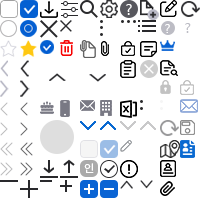
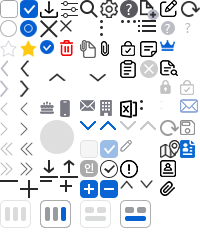
[사업현황 등록] 작업중

diff --git a/view/bizStateRegister.html b/view/bizStateRegister.html
@@ -457,8 +457,17 @@
                                     <div class="suffix">
                                         <div class="tableTop left">
                                             <h4 class="mainC">실투입기준</h4>
-                                            <input type="checkbox" id="e1" class="hasTxt">
-                                            <label for="e1" class="ml10">삼성SDS등급적용</label>     
+                                            
+                                            <div class="ml20">
+                                                <span class="hasTooltip">                                   
+                                                    <i class="ico layoutF is-active"></i>
+                                                    <div class="tooltip bottom">좌우정렬 보기</div>         
+                                                </span>
+                                                <span class="hasTooltip">                                   
+                                                    <i class="ico layoutG"></i>
+                                                    <div class="tooltip bottom">상하정렬 보기</div>         
+                                                </span>
+                                            </div>
                                         </div>
 
                                         <div class="tabWrapper" id="onActual">
@@ -1224,7 +1233,84 @@
                                                     </table>
                                                 </div>
                                             </div>
-                                            <div id="contract-02" class="tabCont">bb</div>
+                                            <div id="contract-02" class="tabCont">
+                                                <div class="tableBox">
+                                                    <table>
+                                                        <colgroup>
+                                                            <col>
+                                                            <col>
+                                                            <col>
+                                                            <col width="20%">
+                                                            <col>
+
+                                                            <col>
+                                                            <col>
+                                                            <col>
+                                                            <col>
+                                                        </colgroup>
+                                                        <thead>
+                                                            <tr>
+                                                                <th>투입인력</th>
+                                                                <th>결제방법</th>
+                                                                <th>항목</th>
+                                                                <th>실투입기간</th>
+                                                                <th>MM</th>
+                                                                <th>단가</th>
+                                                                <th>제외금액</th>
+                                                                <th>합계</th>
+                                                                <th>파일</th>
+                                                                <th>비고</th>
+                                                            </tr>
+                                                        </thead>
+                                                        <tbody>
+                                                            <tr>
+                                                                <td>김호영</td>  
+                                                                <td>법인카드</td>
+                                                                <td>숙소</td>  
+                                                                <td>2022.10.01~2023.02.12</td>  
+                                                                <td>1.0</td>  
+                                                                <td>9,000,000</td>  
+                                                                <td>0</td>
+                                                                <td>100,000</td>  
+                                                                <td><i class="ico file"></i></td>  
+                                                                <td></td>  
+                                                            </tr>
+                                                            <tr>
+                                                                <td>김호영</td>  
+                                                                <td>현금</td>
+                                                                <td>합산제외</td>  
+                                                                <td>2022.10.01~2023.02.12</td>  
+                                                                <td>1.0</td>  
+                                                                <td>0</td>  
+                                                                <td><span class="marked">60,000</span></td>
+                                                                <td><span class="marked">-60,000</span></td>  
+                                                                <td><i class="ico file"></i></td>  
+                                                                <td>특이사항</td>  
+                                                            </tr>
+                                                            <tr>
+                                                                <td>김호영</td>  
+                                                                <td>현금</td>
+                                                                <td>숙소</td>  
+                                                                <td>2022.10.01~2023.02.12</td>  
+                                                                <td>1.0</td>  
+                                                                <td>50,000</td>  
+                                                                <td>0</td>
+                                                                <td>500,000</td>  
+                                                                <td><i class="ico file"></i></td>  
+                                                                <td></td>  
+                                                            </tr>
+                                                        </tbody>
+                                                        <tfoot>
+                                                            <tr>
+                                                                <td colspan="6"></td>
+                                                                <td><b class="dark">합계</b></td>
+                                                                <td class="right"><b class="dark">265,100,000</b></td>
+                                                                <td colspan="2"></td>
+                                                            </tr>
+                                                        </tfoot>
+                                                    </table>
+                                                </div>
+                                            </div>
                                         </div>
                                     </div>
                                 </div>
@@ -2104,6 +2190,13 @@
             }); 
         });
 
+        //2. 매출/매입 (실투입기준) 레이아웃 버튼 active
+        $(".tableTop .ico").on("click", function(){
+            $(".tableTop .ico").removeClass('is-active');
+            $(this).addClass('is-active');
+        });
+
+
         //2.매출/매입 table 축소,확장
         //매출
         $(".flexTable .extend.sales").on("click", function(){
@@ -2127,8 +2220,7 @@
                 $(this).parents('.tableBox').css('width', "2000px");
             }else if(salesOn !== true && buyOn !== true){     
                 $(this).parents('.tableBox').css('width', "1000px");
-            }
-            else if(salesOn === true || buyOn === true){
+            }else if(salesOn === true || buyOn === true){
                 $(this).parents('.tableBox').css('width', "1300px");
             }
         });

diff --git a/assets/scss/_partial/_page_bizStateRegister.scss b/assets/scss/_partial/_page_bizStateRegister.scss
@@ -6,7 +6,7 @@
     }
     .col6{
         margin-top: rem(30);
-        width: 72%;
+        width: rem(1300);
         column-gap: rem(60);
         grid-template-columns: 1fr 50px 1.8fr 1fr 1fr 130px;
     }
@@ -20,7 +20,7 @@
         }
     }
     .range{
-        margin: 0 26px;
+        margin: 0 22px;
     }
     .uploadBox{
         label{
@@ -34,7 +34,7 @@
         grid-column: 4/6;
         input[type=text]{
             &.dateType{
-                width: rem(140) !important;
+                width: rem(172) !important;
             }
         }
     }
@@ -70,6 +70,16 @@
             a{
                 border-bottom-left-radius: 0;
                 border-bottom-right-radius: 0;
+            }
+        }
+    }
+    .tableTop{
+        .hasTooltip{
+            & + .hasTooltip{
+                margin-left: rem(10);
+            }
+            .tooltip{
+                top: 150%;
             }
         }
     }

diff --git a/assets/scss/_partial/_icon.scss b/assets/scss/_partial/_icon.scss
@@ -234,6 +234,26 @@
         }
     }
 
+    //레이아웃 - 사업현황등록
+    &.layoutF{
+        width: rem(31);
+        height: rem(28);
+        background-position: 0 -200px;
+        cursor: pointer;
+        &.is-active{
+            background-position: -40px -200px;
+        }
+    }
+    &.layoutG{
+        width: rem(31);
+        height: rem(28);
+        background-position: -80px -200px;
+        cursor: pointer;
+        &.is-active{
+            background-position: -120px -200px;
+        }
+    }
+
 
     &.qMark{
         width: rem(18);
